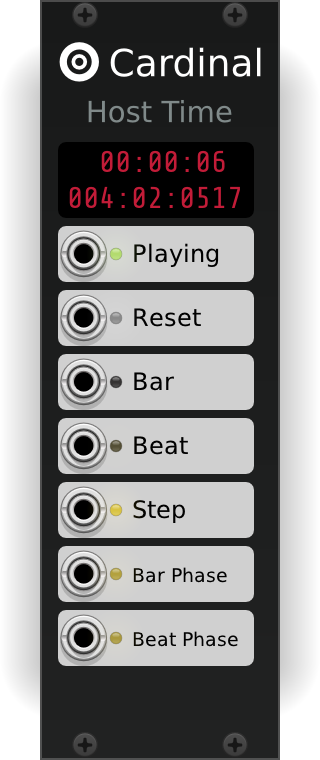
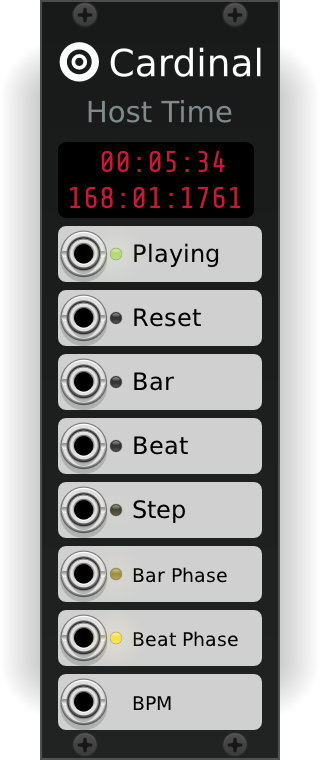
Document HostTime outputs

diff --git a/docs/CARDINAL-MODULES.md b/docs/CARDINAL-MODULES.md
@@ -185,6 +185,17 @@ Unlike Rack, Cardinal does not use PPQN (pulses per quarter note) values, but BB
 The top of the panel has a timer display to help understand how and what the host is doing.  
 The first line is the song time in seconds, and second line is the BBT.
 
+The meaning of the outputs is:
+
+- Playing: On if the host transport is rolling or Off if paused/stopped
+- Reset: Trigger for when the host transport has been relocated or has been restarted
+- Bar: Trigger for bar change
+- Beat: Trigger for beat change
+- Step: Trigger for step change
+- Bar Phase: 0-10v smooth ramp for the bar position (with bar division being a right-click option)
+- Beat Phase: 0-10v smooth ramp for the beat position
+- BPM: Volts per Beat per Second, as supported by Impromptu Clocked/Clkd and ZZC Clock
+
 ## Extra modules
 
 ### Blank
